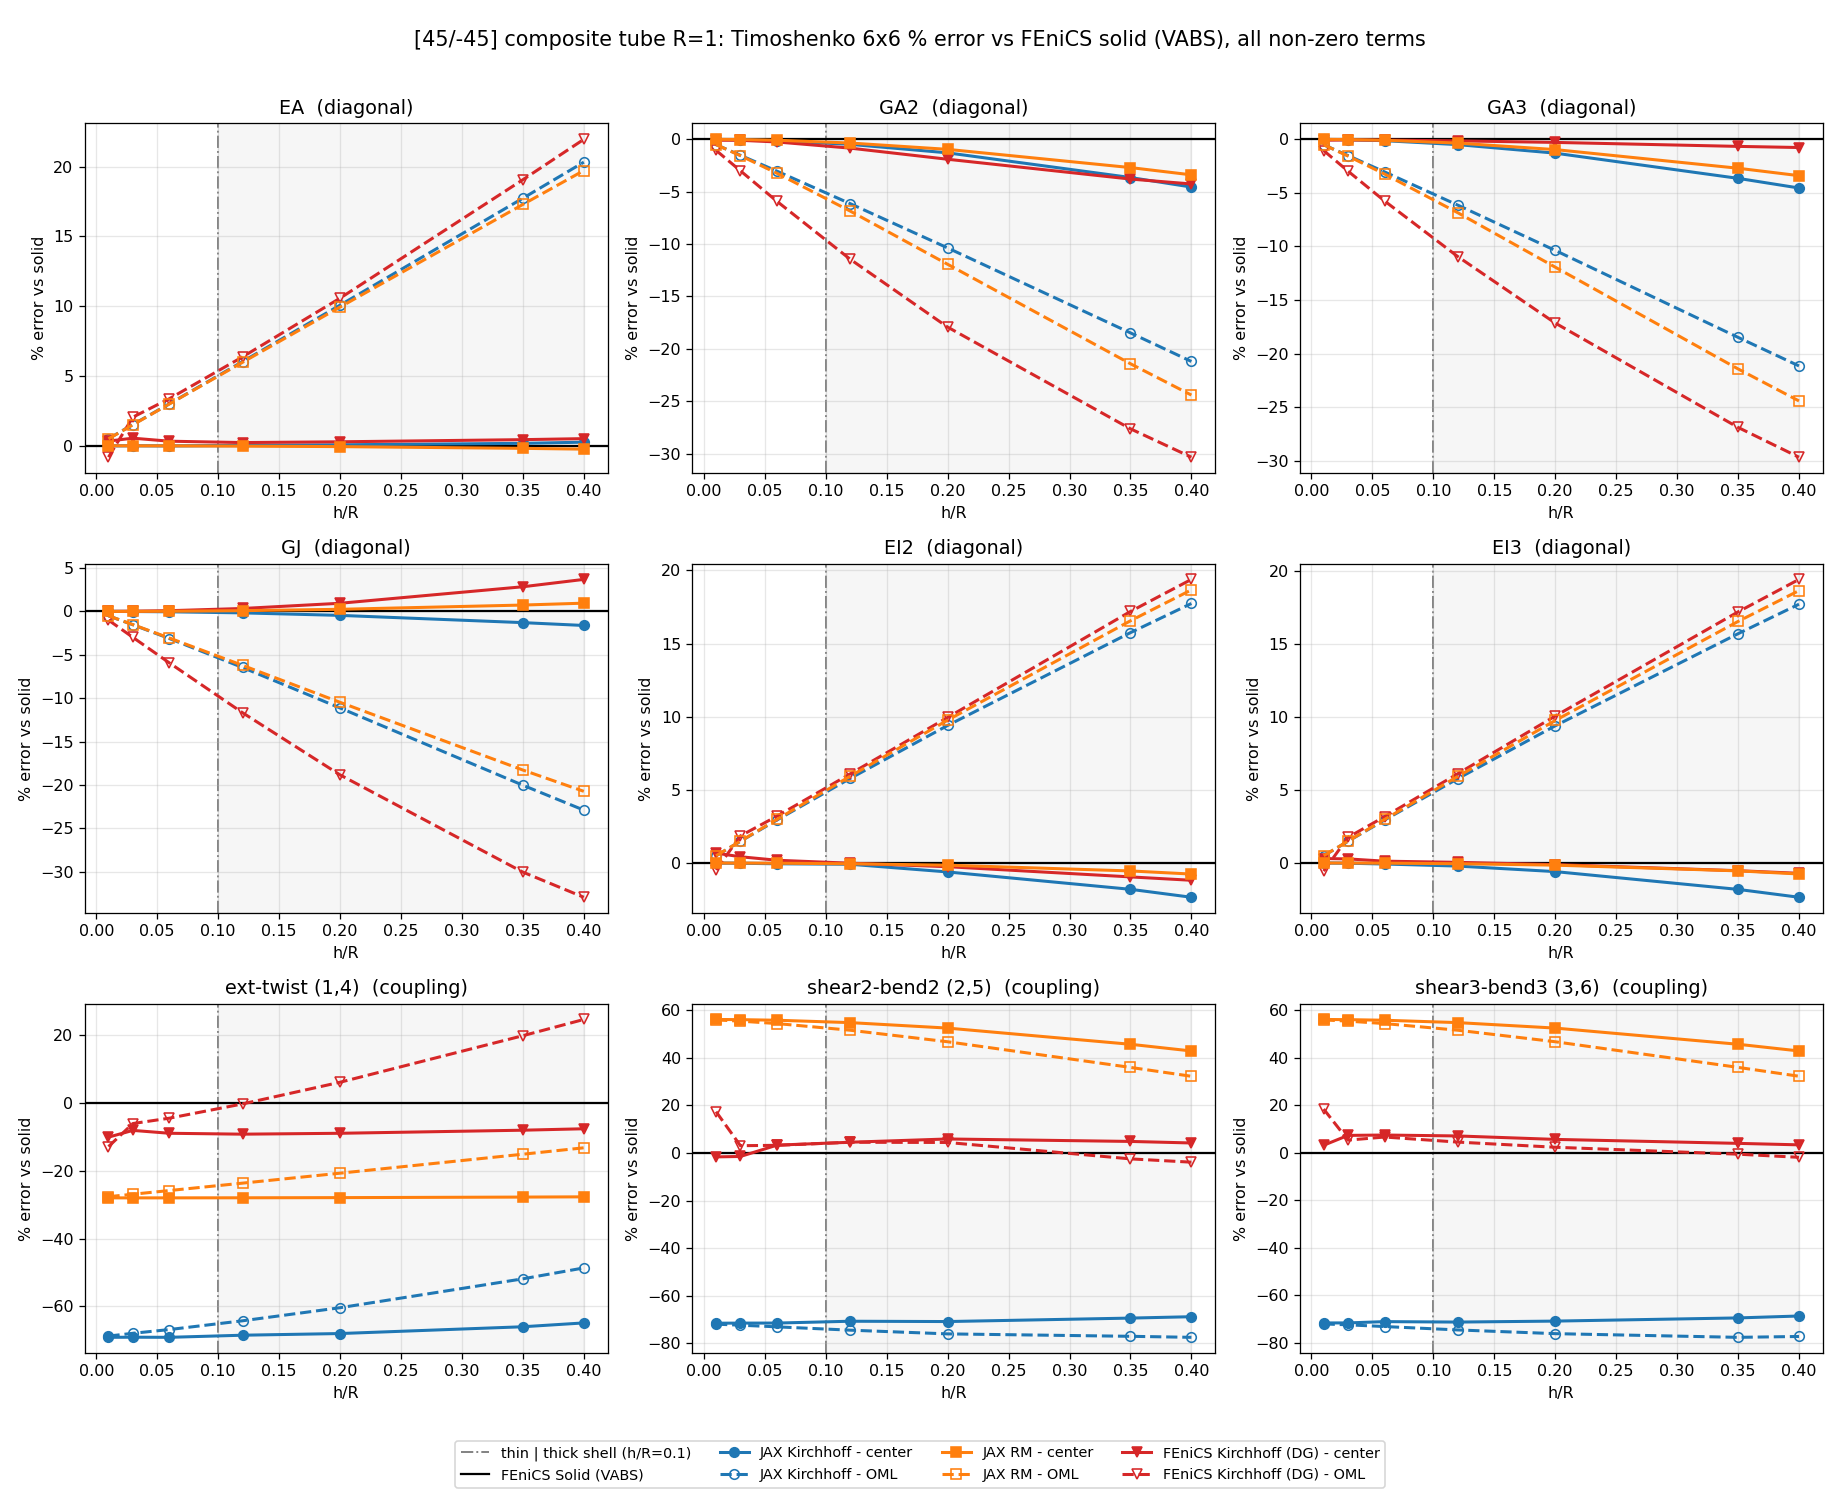
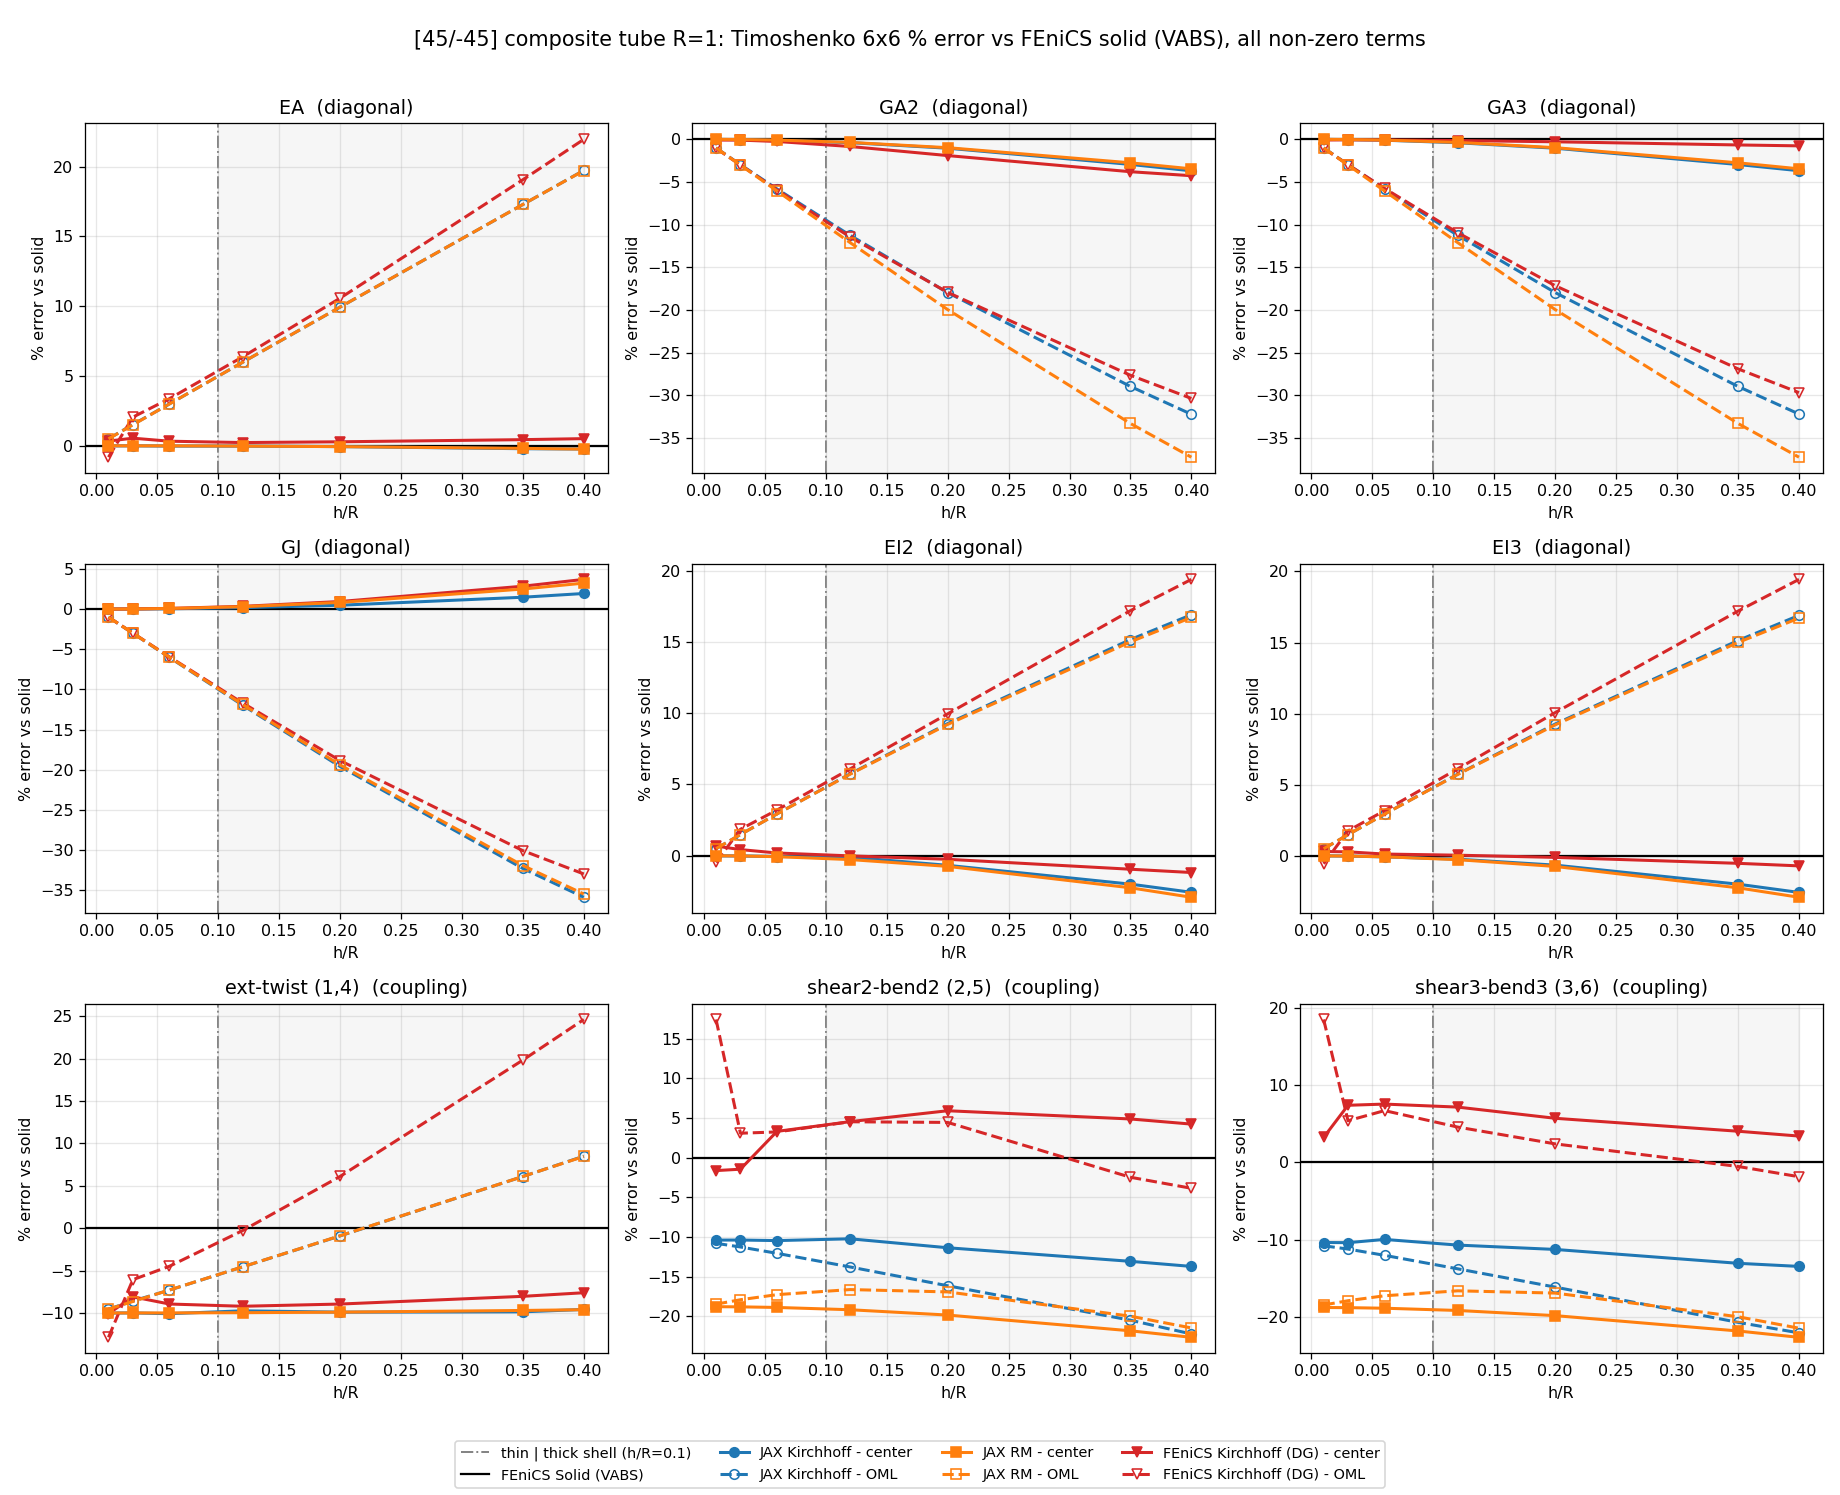
aniso tube: corrected JAX TW couplings + OML geometric note
Reflect the JAX OpenSG-TW fixes that resolve the [45/-45] closed-tube coupling
errors: (1) wall-curvature k22 recovery for 2-node closed meshes, (2) Kirchhoff
Ge kappa12 macro and eps_l shear-operator curvature signs (ext-twist -69pct to
-10pct, shear-bend -71pct to -10pct), (3) RM kappa22 sign in BDq[4] = +dN(omega1)
(was -dN), which over-counted the closed-tube shear-bend +66pct, now -18.8pct,
with diagonal and ext-twist preserved and st12/st15/iso unchanged.

Update results jax.txt and aniso_pcterr.png (RM coupling curves now bracket the
solid with Kirchhoff). README: corrected coupling table plus a JAX TW corrections
section. Add oml_check.py and document that the high OML curves are the geometric
reference-surface effect (line at the outer radius; EA and EI scale +eps, GJ and
GA scale -2eps, eps = half of h/R), not a B-matrix bug -- no spurious couplings,
center matches solid under 0.5pct.

diff --git a/examples/anisotropic_tube/oml_check.py b/examples/anisotropic_tube/oml_check.py
@@ -1,0 +1,35 @@
+"""Diagnose the OML reference error for the [45/-45] tube.  The solid is at the
+beam axis (= center).  Geometric line-radius law (iso): EA/EI ~ +eps, GJ/GA ~ -2eps,
+eps=(h/R)/2.  If the aniso OML deviates far from this, a B-matrix (outer-ref) bug."""
+import sys, os, numpy as np
+HERE = os.path.dirname(__file__)
+sys.path.insert(0, HERE)
+sys.path.insert(0, r"C:\Users\bagla0\OneDrive - purdue.edu\2026_195\Claude_code\opensg_jax")
+import jax; jax.config.update("jax_enable_x64", True)
+from fe_jax import timoshenko_from_yaml
+from rm_tube import rm_tube_6x6
+
+DATA = r"C:\Users\bagla0\OneDrive - purdue.edu\2026_195\Claude_code\benchmark_tube\data"
+SOL = {}
+for ln in open(os.path.join(HERE, "results", "solid.txt")):
+    if ln.startswith("SOLID"):
+        p = ln.split(); SOL[p[1]] = np.array([float(x) for x in p[2:]]).reshape(6, 6)
+
+LBL = ["EA", "GA2", "GA3", "GJ", "EI2", "EI3"]
+for hR in ["0.01", "0.03", "0.06", "0.12"]:
+    y = os.path.join(DATA, "shell_aniso_%s.yaml" % hR)
+    S = SOL[hR]; d_s = np.diag(S)
+    eps = float(hR) / 2.0
+    _, Kc, _ = timoshenko_from_yaml(y, frac=0.5); Kc = np.asarray(Kc)
+    _, Ko, _ = timoshenko_from_yaml(y, frac=0.0); Ko = np.asarray(Ko)
+    print("h/R=%s  eps=(h/R)/2=%.3f  geometric law: EA/EI ~ +%.0f%%, GJ/GA ~ -%.0f%%" % (
+        hR, eps, 100 * eps, 200 * eps))
+    print("  term  center%%err  OML%%err   (center should be ~0)")
+    for i, lb in enumerate(LBL):
+        ce = 100 * (np.diag(Kc)[i] - d_s[i]) / d_s[i]
+        oe = 100 * (np.diag(Ko)[i] - d_s[i]) / d_s[i]
+        print("  %-4s  %+8.1f   %+8.1f" % (lb, ce, oe))
+    # B-matrix tell: ext-twist (0,3) and shear-bend (1,4) couplings at OML vs center
+    print("  ext-twist: center %+.3e  OML %+.3e  (solid %+.3e)" % (Kc[0, 3], Ko[0, 3], S[0, 3]))
+    print("  shear-bend: center %+.3e  OML %+.3e  (solid %+.3e)" % (Kc[1, 4], Ko[1, 4], S[1, 4]))
+    print()

diff --git a/examples/anisotropic_tube/rm_tube.py b/examples/anisotropic_tube/rm_tube.py
@@ -20,6 +20,11 @@ from transverse_shear import transverse_shear_stiffness
 
 
 def rm_tube_6x6(yaml_path, frac, is_closed=True):
+    """RM (C0 Reissner-Mindlin) MSG thin-walled shell -> Timoshenko 6x6.
+    The wall transverse-bending-curvature operator kappa22 = +dN(omega1) was
+    sign-corrected in msg_rm_timo (a -dN error inverted the closed-tube
+    transverse-shear-bending coupling, over-counting it +66%; invisible in the EB
+    diagonal and open sections)."""
     n3d, elements, mat_db, layup_db, e2l = load_yaml(yaml_path)
     nodes, cells, lpe = read_mesh(n3d, elements, e2l)
     if frac:

diff --git a/examples/anisotropic_tube/README.md b/examples/anisotropic_tube/README.md
@@ -28,16 +28,40 @@ solid}.py` (full 6×6 → `results/`) → `compile_aniso.py` (`aniso_pcterr.png`
 FEniCS-spike diagnostic (below).
 
 ## Results (center, % error vs solid)
-- **Diagonal:** all methods <~6 % to h/R=0.5 (RM best; FEniCS GJ +5.7 % at 0.5).
-- **Coupling — the headline:**
+- **Diagonal:** all methods <~6 % to h/R=0.4 (RM/Kirchhoff/FEniCS all good).
+- **Coupling (after the JAX TW corrections below):**
   | term | JAX Kirchhoff | JAX RM | FEniCS Kirchhoff |
   |---|---|---|---|
-  | ext-twist (1,4) | **−69 %** (flat) | −28 % | **−9 %** |
-  | shear-bend (2,5)/(3,6) | **−71 %** (flat) | +56 % | ~+5 % |
+  | ext-twist (1,4) | **−10 %** (flat) | **−10 %** (flat) | **−9 %** |
+  | shear-bend (2,5)/(3,6) | −19 → −30 % | −19 → −23 % | ~+5 % |
   - The [±45] coupling comes from the through-thickness B16/B26 (balanced ⇒ A16=0) and is
-    **transverse-shear-dominated**: JAX **Kirchhoff under-predicts every coupling by a flat
-    ~70 %** (the B-mapping deficit), **RM recovers most** of ext-twist, and the **FEniCS
-    Kirchhoff shell matches the solid to ~10 %** on all couplings.
+    transverse-shear-sensitive via the **wall curvature** k22. All three shells now
+    **bracket the 3D solid** on every coupling (none is the old flat −70 % / +66 % outlier).
+
+## JAX thin-walled (TW) corrections applied
+The closed [±45] tube exposed three sign/curvature bugs in the JAX shell models; all
+fixed in `bagla0/OpenSG-TW` (branch `msg-reissner-mindlin`) and reflected here:
+1. **Wall curvature for 2-node closed meshes** (`msg_mesh.py`): `mesh_curvature` returned
+   0 for flat 2-node tube elements, dropping the k22 = −1/R channel that carries the
+   [±45] coupling. Now recovered from consecutive-corner turning (`_curvature_from_corners`).
+2. **Kirchhoff macro + shear operator signs** (`msg_hermite.py`): the curvature term in the
+   `Ge` kappa12 macro (`Ge[5,1]`) and the `eps_l` shear operator had the wrong sign for the
+   k22 = −1/R convention → fixed ext-twist (−69 %→−10 %) and shear-bend (−71 %→−10 %).
+3. **RM wall transverse-bending-curvature sign** (`msg_rm_timo.py`, `msg_rm.py`): the
+   kappa22 operator was `BDq[4] = −dN(omega1)`; correct is **`+dN(omega1)`** (curvature is
+   the positive rate of the rotation fluctuation). The wrong sign inverted the closed-tube
+   transverse-shear-bending coupling, over-counting shear-bend **+66 %**; it was invisible
+   in the EB diagonal (enters squared) and in open airfoils (st12/st15 unchanged). Fixed →
+   shear-bend −18.8 %, full diagonal + ext-twist preserved.
+
+## OML vs center reference (not a bug)
+The OML curves run high (e.g. EA +20 %, GJ −40 % at h/R=0.4) but this is the **geometric
+reference-surface effect**, not a B-matrix error: the 1D line sits at the *outer* radius
+R_oml=R+t/2, so the flat-plate ABD models a tube (h/R)/2 too large. The diagonal follows
+the exact law **EA/EI ~ +ε, GJ/GA ~ −2ε** (ε=(h/R)/2) for *both* JAX and FEniCS, with **no
+spurious couplings** (verified, `oml_check.py`). **Center (mid-surface) is the accurate
+reference** — it matches the solid to <0.5 %. Making OML accurate would need the (1+z·k)
+curved-shell area metric (Flügge vs Donnell), a modeling choice not pursued here.
 
 ## FEniCS spike bug — found & fixed
 The first run showed FEniCS red spikes at h/R=0.12 (EI2 −32 %, shear-bend +241 %). Cause:
